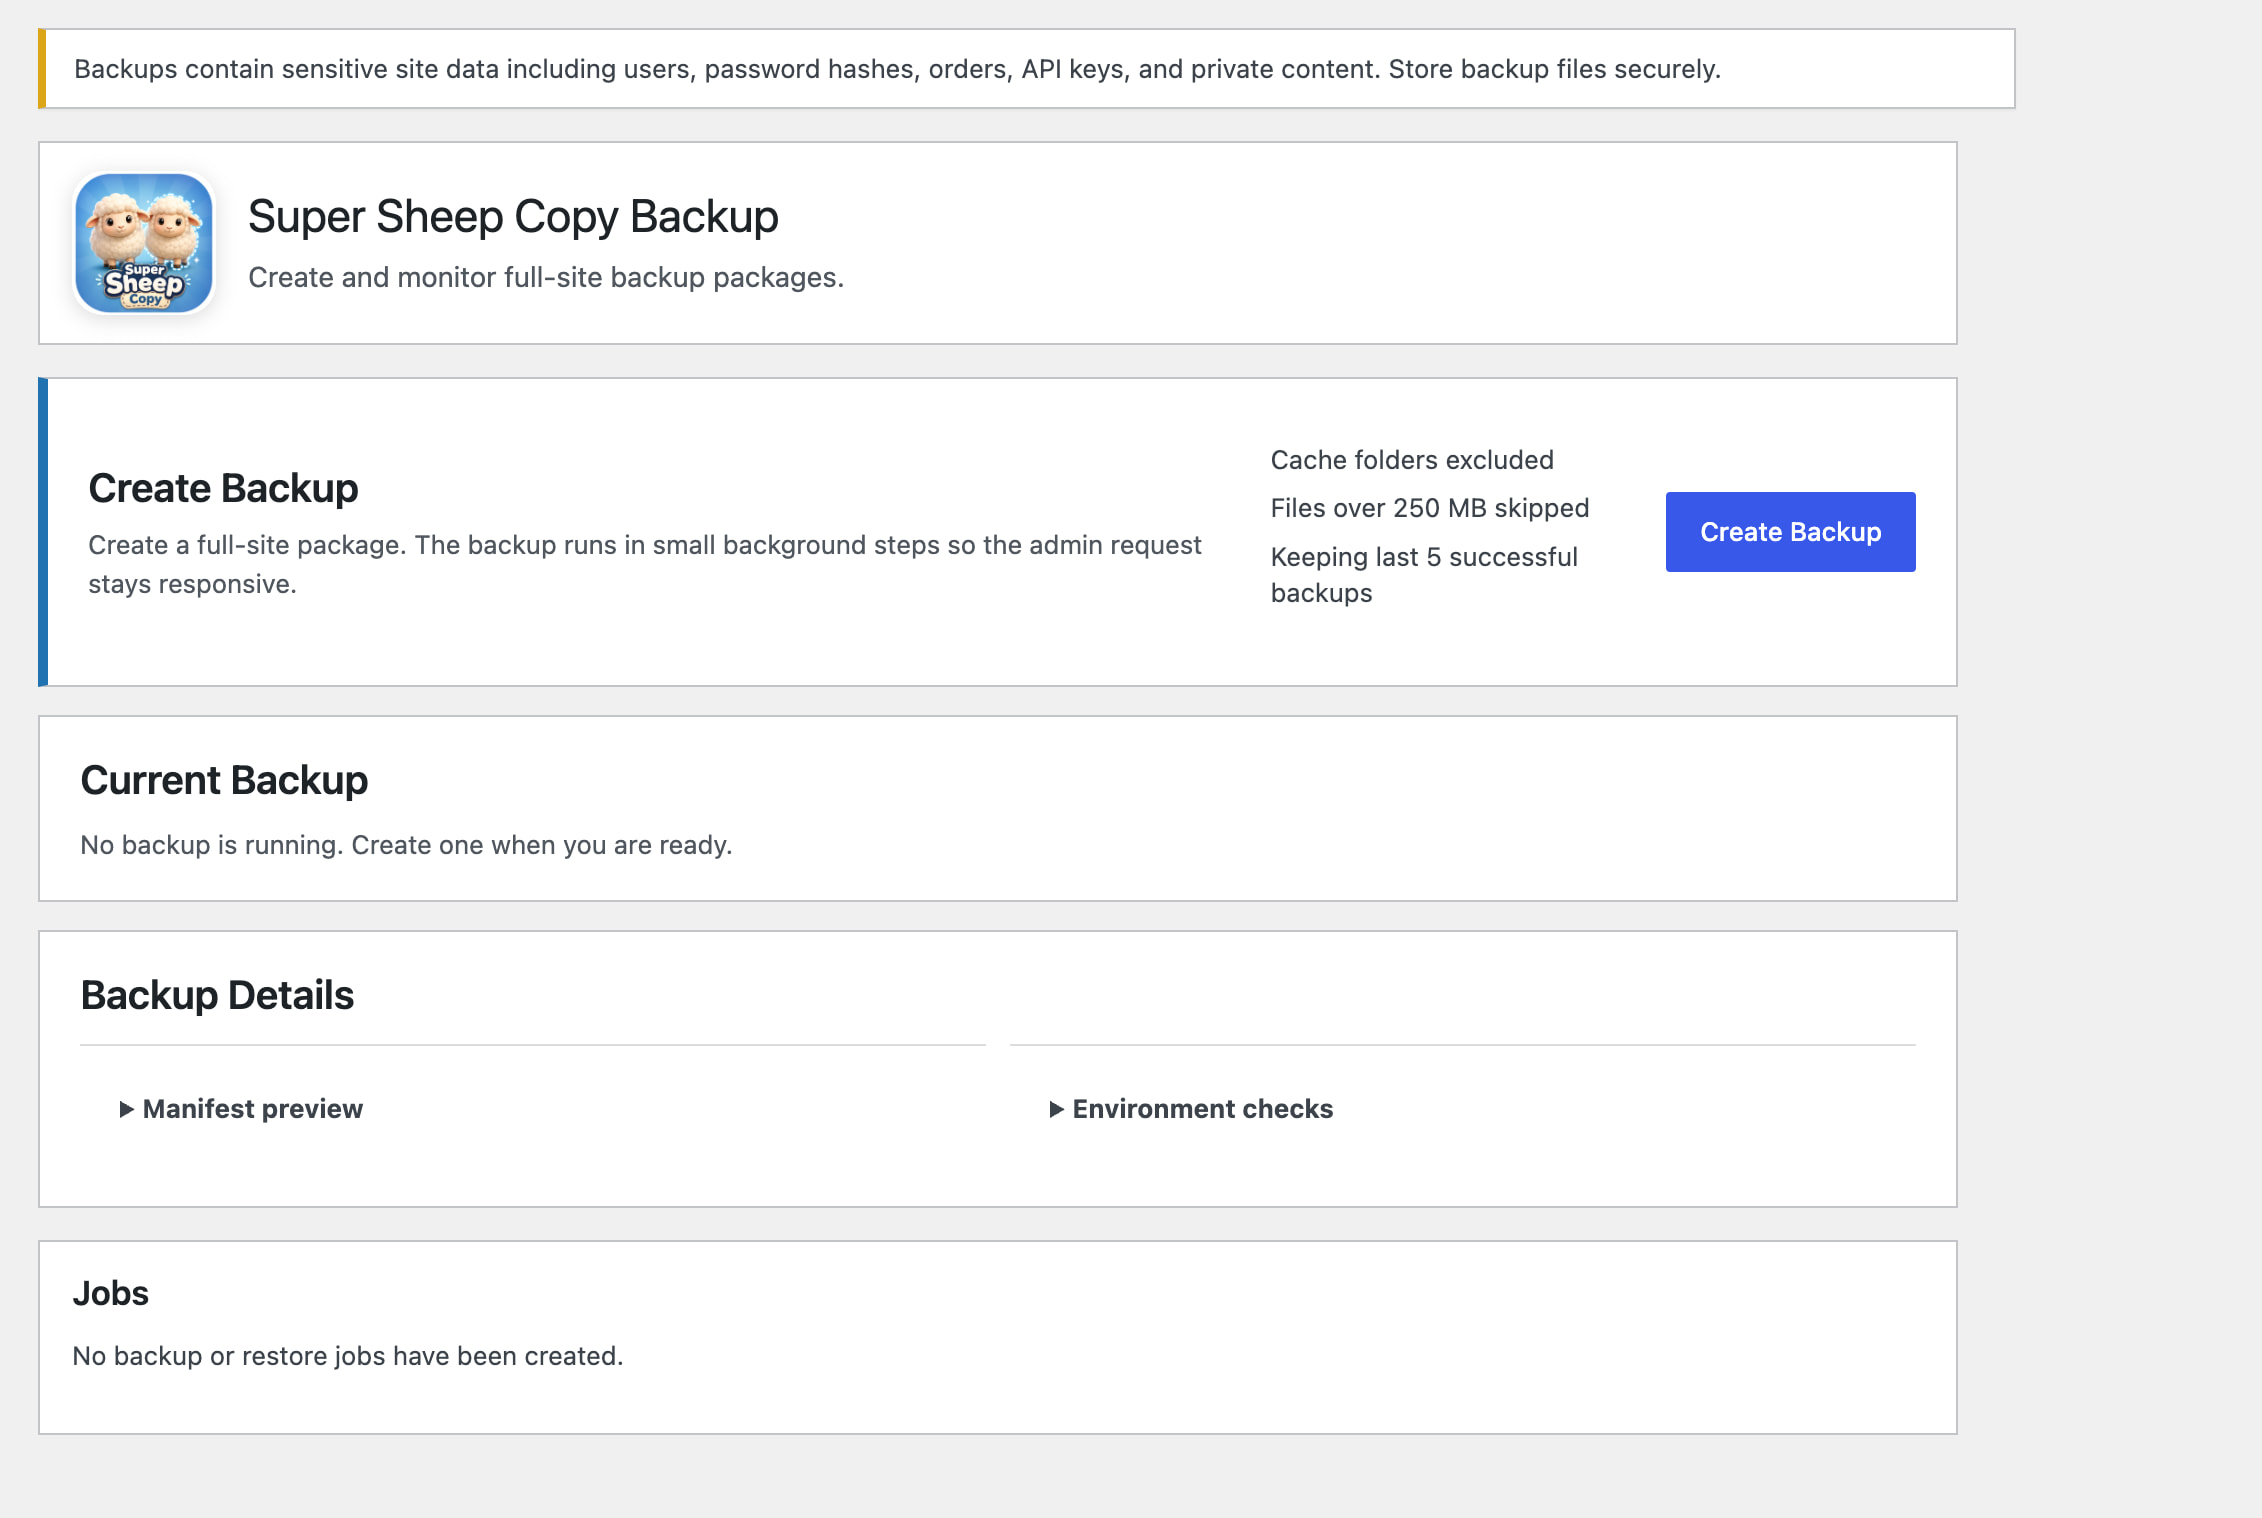
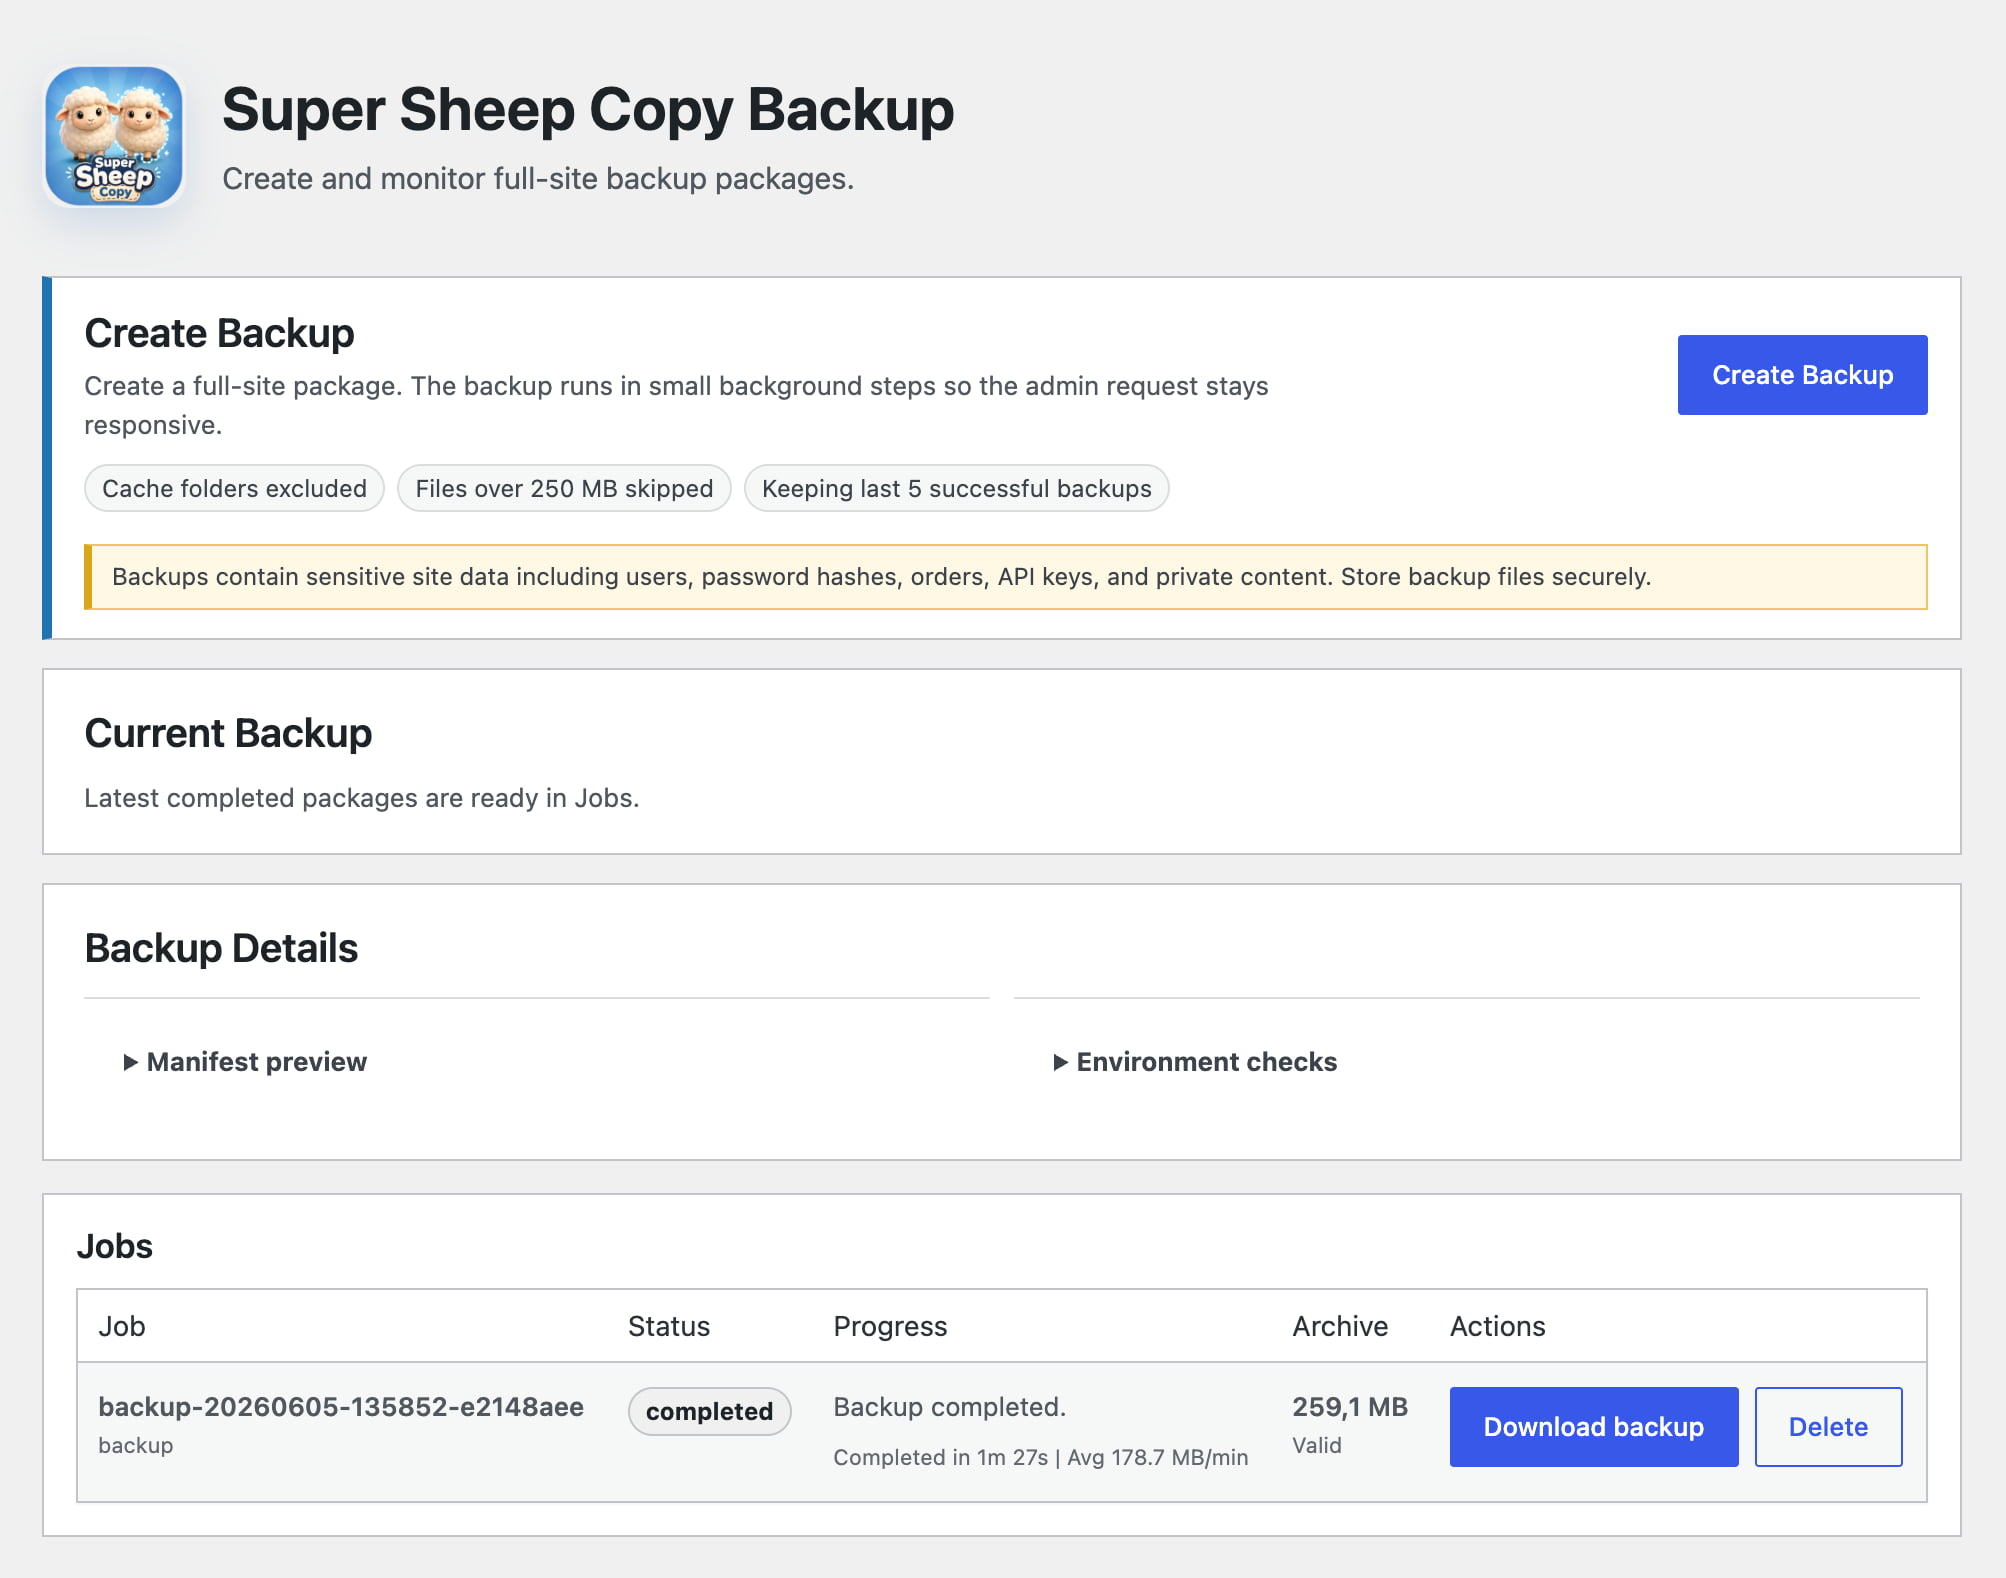
Update Create backup block and screenshot

diff --git a/super-sheep-copy/assets/admin.css b/super-sheep-copy/assets/admin.css
@@ -335,18 +335,17 @@
 }
 
 .super-sheep-copy .super-sheep-copy-backup-block-primary {
-  align-items: center;
+  align-items: stretch;
   border-left: 5px solid #2271b1;
-  display: flex;
-  flex-wrap: wrap;
-  gap: 18px;
-  justify-content: space-between;
+  display: grid;
+  gap: 10px;
+  padding: 14px 16px;
 }
 
 .super-sheep-copy .super-sheep-copy-backup-block h2 {
   font-size: 20px;
   line-height: 1.3;
-  margin: 0 0 6px;
+  margin: 0 0 4px;
 }
 
 .super-sheep-copy .super-sheep-copy-backup-block h3 {
@@ -358,6 +357,21 @@
 .super-sheep-copy .super-sheep-copy-backup-block p {
   color: #50575e;
   margin: 0;
+}
+
+.super-sheep-copy .super-sheep-copy-backup-main {
+  align-items: center;
+  display: flex;
+  gap: 16px;
+  justify-content: space-between;
+}
+
+.super-sheep-copy .super-sheep-copy-backup-copy {
+  min-width: 0;
+}
+
+.super-sheep-copy .super-sheep-copy-backup-copy p {
+  max-width: 620px;
 }
 
 .super-sheep-copy .super-sheep-copy-backup-block-header {
@@ -378,19 +392,36 @@
   margin: 0;
 }
 
+.super-sheep-copy .super-sheep-copy-settings-summary-compact {
+  display: flex;
+  flex-wrap: wrap;
+  gap: 6px;
+  margin: 0;
+  padding: 0;
+}
+
+.super-sheep-copy .super-sheep-copy-settings-summary-compact li {
+  background: #f6f7f7;
+  border: 1px solid #dcdcde;
+  border-radius: 999px;
+  color: #3c434a;
+  font-size: 12px;
+  line-height: 1.35;
+  list-style: none;
+  padding: 3px 8px;
+}
+
 .super-sheep-copy .super-sheep-copy-backup-safety {
   background: #fff8e5;
   border: 1px solid #f0c36d;
   border-left: 4px solid #dba617;
-  flex: 1 0 100%;
-  margin-top: 2px;
-  padding: 10px 12px;
+  padding: 7px 10px;
 }
 
 .super-sheep-copy .super-sheep-copy-backup-safety p {
   color: #3c434a;
-  font-size: 13px;
-  line-height: 1.45;
+  font-size: 12px;
+  line-height: 1.4;
 }
 
 .super-sheep-copy .super-sheep-copy-current-progress {
@@ -660,7 +691,7 @@
     width: 100%;
   }
 
-  .super-sheep-copy .super-sheep-copy-backup-block-primary,
+  .super-sheep-copy .super-sheep-copy-backup-main,
   .super-sheep-copy .super-sheep-copy-backup-action,
   .super-sheep-copy .super-sheep-copy-backup-action .button {
     align-items: stretch;

diff --git a/super-sheep-copy/templates/backup-page.php b/super-sheep-copy/templates/backup-page.php
@@ -52,22 +52,24 @@ foreach ($jobs as $job) {
 
     <div class="super-sheep-copy-backup-dashboard">
         <section class="super-sheep-copy-backup-block super-sheep-copy-backup-block-primary">
-            <div>
-                <h2><?php echo esc_html__('Create Backup', 'super-sheep-copy'); ?></h2>
-                <p><?php echo esc_html__('Create a full-site package. The backup runs in small background steps so the admin request stays responsive.', 'super-sheep-copy'); ?></p>
+            <div class="super-sheep-copy-backup-main">
+                <div class="super-sheep-copy-backup-copy">
+                    <h2><?php echo esc_html__('Create Backup', 'super-sheep-copy'); ?></h2>
+                    <p><?php echo esc_html__('Create a full-site package. The backup runs in small background steps so the admin request stays responsive.', 'super-sheep-copy'); ?></p>
+                </div>
+                <form class="super-sheep-copy-backup-action" method="post">
+                    <?php echo $nonce_field; // phpcs:ignore WordPress.Security.EscapeOutput.OutputNotEscaped ?>
+                    <input type="hidden" name="super_sheep_copy_action" value="create_backup" />
+                    <button class="button button-primary" type="submit"><?php echo esc_html__('Create Backup', 'super-sheep-copy'); ?></button>
+                </form>
             </div>
             <?php if ($backup_settings_summary !== array()) : ?>
-                <ul class="super-sheep-copy-settings-summary">
+                <ul class="super-sheep-copy-settings-summary super-sheep-copy-settings-summary-compact">
                     <?php foreach ($backup_settings_summary as $summary_item) : ?>
                         <li><?php echo esc_html($summary_item); ?></li>
                     <?php endforeach; ?>
                 </ul>
             <?php endif; ?>
-            <form class="super-sheep-copy-backup-action" method="post">
-                <?php echo $nonce_field; // phpcs:ignore WordPress.Security.EscapeOutput.OutputNotEscaped ?>
-                <input type="hidden" name="super_sheep_copy_action" value="create_backup" />
-                <button class="button button-primary" type="submit"><?php echo esc_html__('Create Backup', 'super-sheep-copy'); ?></button>
-            </form>
             <div class="super-sheep-copy-backup-safety">
                 <p><?php echo esc_html__('Backups contain sensitive site data including users, password hashes, orders, API keys, and private content. Store backup files securely.', 'super-sheep-copy'); ?></p>
             </div>

diff --git a/super-sheep-copy/tests/Unit/BackupPageTest.php b/super-sheep-copy/tests/Unit/BackupPageTest.php
@@ -70,6 +70,9 @@ final class BackupPageTest extends TestCase
         self::assertHeaderContains($html, 'class="super-sheep-copy-header-title">Super Sheep Copy Backup</span>');
         self::assertStringContainsString('assets/images/super-sheep-copy-logo.png', $html);
         self::assertStringContainsString('alt="Super Sheep Copy"', $html);
+        self::assertStringContainsString('class="super-sheep-copy-backup-main"', $html);
+        self::assertStringContainsString('class="super-sheep-copy-backup-copy"', $html);
+        self::assertStringContainsString('class="super-sheep-copy-settings-summary super-sheep-copy-settings-summary-compact"', $html);
         self::assertTextBefore($html, 'class="super-sheep-copy-backup-action"', 'Backups contain sensitive site data');
         self::assertTextBefore($html, 'Backups contain sensitive site data', '<h2>Current Backup</h2>');
         self::assertStringContainsString('class="super-sheep-copy-backup-safety"', $html);
